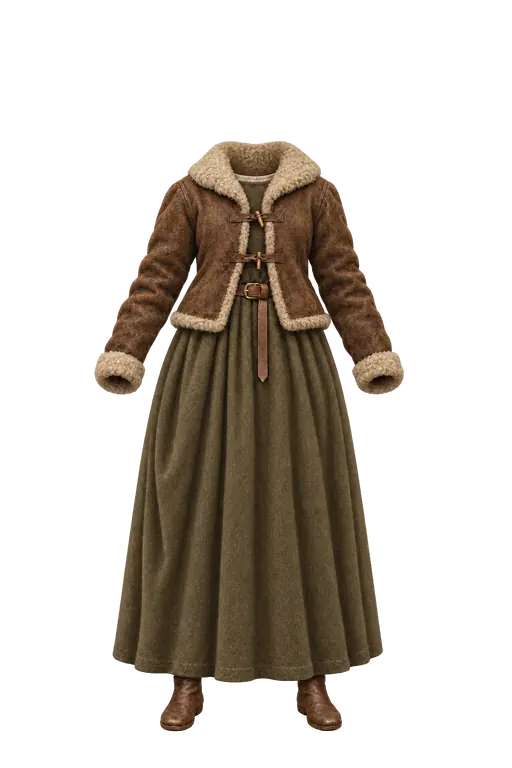
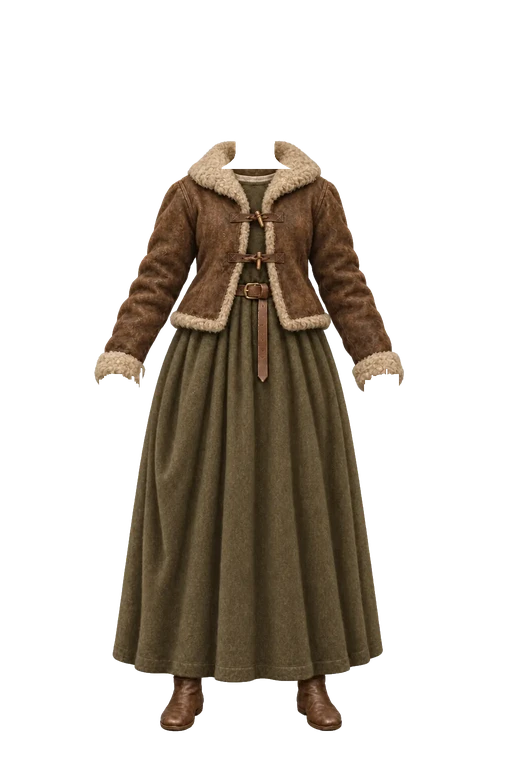
Postava (žena): vrstva oblečení vnořená — spodní košilka nevyčuhuje, kožíšek s oříznutým límcem a manžetami
Claude-Session: https://claude.ai/code/session_01Q25kmxKucwLhnUcj4Ap4v4

Changed region(s): [[0.1875, 0.4688, 0.2812, 0.5312], [0.7188, 0.4688, 0.7812, 0.5312], [0.4375, 0.1875, 0.5625, 0.2188]]

diff --git a/nastroje/vrstva_odev.py b/nastroje/vrstva_odev.py
@@ -1,0 +1,23 @@
+"""Vrstva 2 (oděv) na těle ve spodním prádle: spodní prádlo (košilka/bryčesy), které nezakrývá oděv, zmizí.
+Kůže (ruce, nohy, krk) zůstává. Spouští se pro JEDEN oděv: python3 nastroje/vrstva_odev.py odev-zena-saty"""
+import sys, json
+import numpy as np, cv2
+from PIL import Image
+from pathlib import Path
+D = Path("img/postava")
+n = sys.argv[1]; sx = "zena" if "-zena-" in n else "muz"
+im = np.array(Image.open(D / f"postava-telo-{sx}.webp").convert("RGBA")).astype(float) / 255
+mx = im[..., :3].max(2); mn = im[..., :3].min(2); sat = (mx - mn) / np.maximum(mx, 1e-6)
+ys = np.arange(1536)[:, None]; xs = np.arange(1024)[None, :]
+pradlo = ((im[..., 3] > .4) & (sat < .37) & (ys >= 330) & (ys <= 1240)).astype(np.uint8)
+pradlo = cv2.morphologyEx(pradlo, cv2.MORPH_CLOSE, np.ones((15, 15), np.uint8))
+k, lab, st, _ = cv2.connectedComponentsWithStats(pradlo)
+pradlo = (lab == 1 + np.argmax(st[1:, cv2.CC_STAT_AREA])).astype(np.uint8)       # jen souvislá košilka, ne skvrny na rukou
+pradlo = cv2.dilate(pradlo, np.ones((5, 5), np.uint8)) > 0                       # i s měkkým okrajem
+pradlo &= ~((sat > .43) & (im[..., 3] > .4))                                     # ale ne do jasné kůže
+U = np.array(Image.open(D / f"{n}.webp").convert("RGBA"))[..., 3] > 200
+skryt = pradlo & ~U
+a = (skryt * 255).astype(np.uint8)
+Image.fromarray(np.dstack([np.full_like(a, 255)] * 3 + [a]), "RGBA").save(D / f"{n}-skryva-telo.webp", "WEBP", lossless=True)
+j = json.load(open(D / "skryva.json")); j["telo"] = sorted(set(j["telo"]) | {n}); json.dump(j, open(D / "skryva.json", "w"), ensure_ascii=False)
+print(n, int(skryt.sum()))
